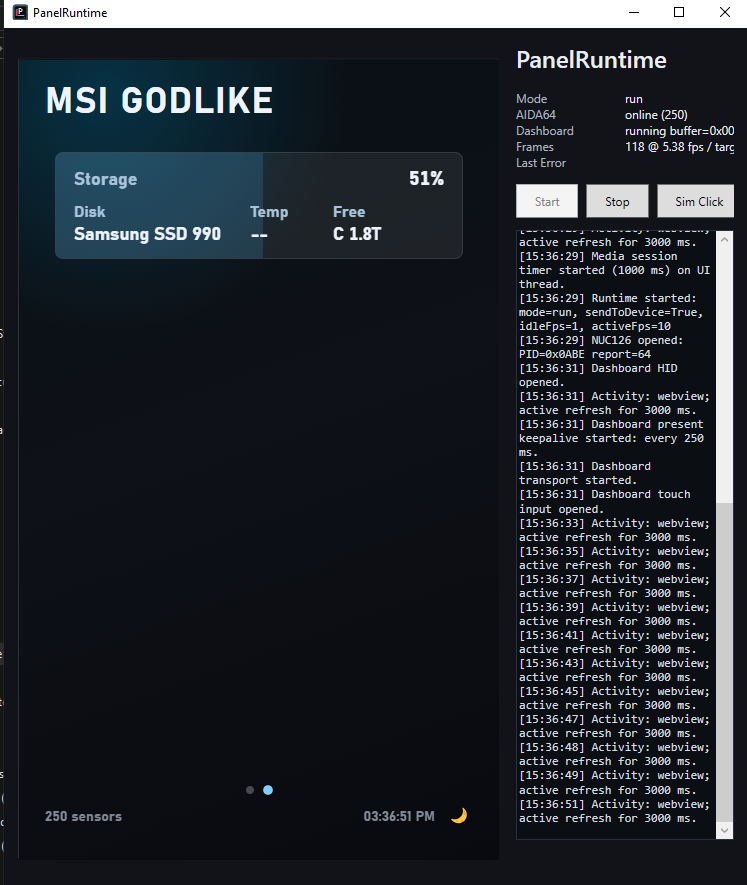
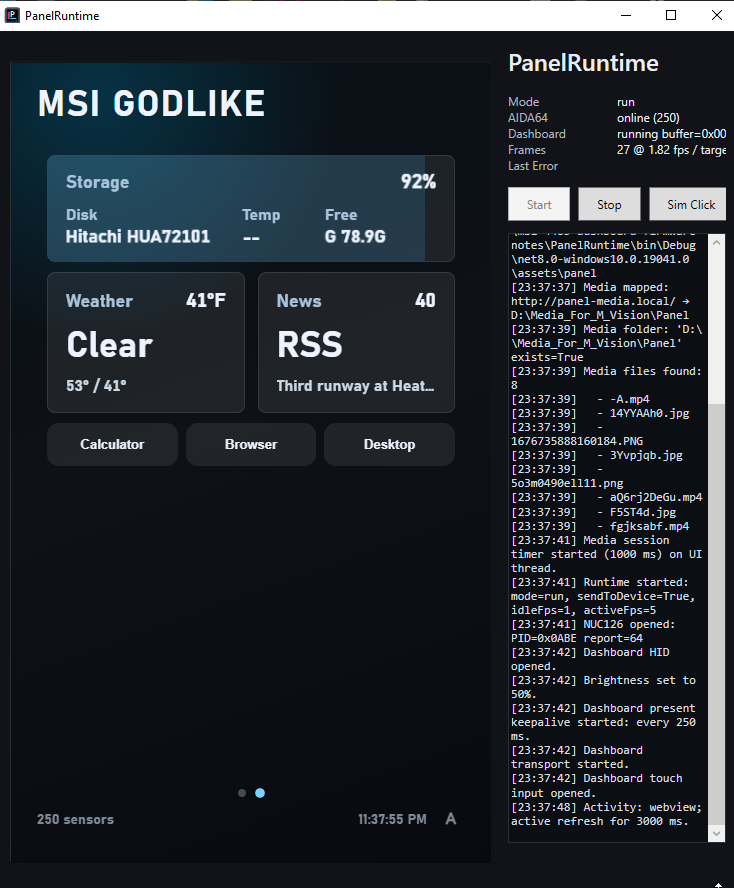
Fix storage issues, still needs some ui work

diff --git a/PanelRuntime/assets/panel/panel.css b/PanelRuntime/assets/panel/panel.css
@@ -844,17 +844,40 @@ body[data-page="network"] .detailList {
   font-weight: 800;
   font-variant-numeric: tabular-nums;
 }
-
 .storageDiskList {
   display: grid;
-  gap: 12px;
+  gap: 10px;
   align-content: start;
+  padding: 4px 2px 8px;
 }
+
+.detailList { overflow: hidden; }
+body[data-page="board"] .detailList { overflow: hidden; }
+.storageDiskCard { height: 132px; }  /* ~4 fit in 694px */
+
+body[data-page="board"] .detailView,
+body[data-page="network"] .detailView {
+  grid-template-rows: 1fr 34px;
+  min-height: 0;
+}
+
+body[data-page="board"] .detailList,
+body[data-page="network"] .detailList {
+  padding: 0;
+  overflow-x: hidden;
+  overflow-y: auto;              /* was hidden */
+  -webkit-overflow-scrolling: touch;
+  min-height: 0;
+  background: transparent;
+  border: 0;
+}
+
+
 
 .storageDiskCard {
   position: relative;
-  height: 132px;
-  padding: 15px 16px;
+  height: 118px;
+  padding: 12px 14px;
   border-radius: 8px;
   background: var(--card-bg);
   border: 1px solid var(--card-border);

diff --git a/PanelRuntime/Services/WindowsStorageProvider.cs b/PanelRuntime/Services/WindowsStorageProvider.cs
@@ -89,24 +89,27 @@ public sealed class WindowsStorageProvider
                 diskVolumes));
         }
 
+        
         var unmatched = volumes
-            .Where(volume => string.IsNullOrWhiteSpace(volume.DiskNumber))
+            .Where(volume => string.IsNullOrWhiteSpace(volume.DiskNumber)
+                || !disks.Any(d => string.Equals(d.DiskNumber, volume.DiskNumber, StringComparison.OrdinalIgnoreCase)))
             .OrderBy(volume => volume.Name, StringComparer.OrdinalIgnoreCase)
             .ToList();
-        if (disks.Count == 0 && unmatched.Count > 0)
+
+        if (unmatched.Count > 0)
         {
             disks.Add(new StorageDiskValue(
-                "",
-                "Windows Storage",
-                "",
-                "",
+                "vol",
+                "Other volumes",
                 "",
                 "",
                 "",
-                unmatched.Sum(volume => volume.TotalBytes),
-                FormatBytes(unmatched.Sum(volume => volume.TotalBytes)),
-                unmatched.Select(volume => volume.Name).ToList()));
-        }
+                "",
+                "",
+                unmatched.Sum(v => v.TotalBytes),
+                FormatBytes(unmatched.Sum(v => v.TotalBytes)),
+                unmatched.Select(v => v.Name).Distinct(StringComparer.OrdinalIgnoreCase).ToList()));
+            }
 
         return disks;
     }
@@ -138,14 +141,61 @@ public sealed class WindowsStorageProvider
     private static (List<DiskInfo> Items, string Error) ProbeDiskInfo()
     {
         const string script = """
-            $ErrorActionPreference='Stop'
-            $items = foreach ($volume in (Get-Volume | Where-Object { $_.DriveLetter })) {
-              $partition = Get-Partition -DriveLetter $volume.DriveLetter -ErrorAction SilentlyContinue | Select-Object -First 1
-              if ($null -eq $partition) { continue }
-              $disk = Get-Disk -Number $partition.DiskNumber -ErrorAction SilentlyContinue
-              if ($null -eq $disk) { continue }
-              [pscustomobject]@{
-                DiskNumber = [string]$disk.Number
+        $ErrorActionPreference='Stop'
+        $items = @()
+
+        # Every fixed/ready volume with a letter
+        foreach ($vol in (Get-Volume | Where-Object { $_.DriveLetter -and $_.DriveType -eq 'Fixed' })) {
+            $letter = ([string]$vol.DriveLetter) + ':'
+            $parts = @(Get-Partition -DriveLetter $vol.DriveLetter -ErrorAction SilentlyContinue)
+            if ($parts.Count -eq 0) {
+                # No partition mapping (rare) — still surface the volume
+                $items += [pscustomobject]@{
+                    DiskNumber = 'vol'
+                    Model = if ($vol.FileSystemLabel) { $vol.FileSystemLabel } else { 'Volume' }
+                    SerialNumber = ''
+                    Health = [string]$vol.HealthStatus
+                    OperationalStatus = [string]$vol.OperationalStatus
+                    BusType = ''
+                    MediaType = ''
+                    SizeBytes = [int64]($vol.Size)
+                    DriveLetter = $letter
+                    IsSpanned = $false
+                }
+                continue
+            }
+
+            $diskNumbers = @($parts | ForEach-Object { $_.DiskNumber } | Sort-Object -Unique)
+            $isSpanned = $diskNumbers.Count -gt 1
+
+            foreach ($dn in $diskNumbers) {
+                $disk = Get-Disk -Number $dn -ErrorAction SilentlyContinue
+                if ($null -eq $disk) { continue }
+                $model = [string]$disk.FriendlyName
+                if ($isSpanned) {
+                    $model = ($model + ' (span)').Trim()
+                }
+                $items += [pscustomobject]@{
+                    DiskNumber = [string]$dn
+                        Model = $model
+                        SerialNumber = [string]$disk.SerialNumber
+                        Health = [string]$disk.HealthStatus
+                        OperationalStatus = [string]($disk.OperationalStatus -join ',')
+                        BusType = [string]$disk.BusType
+                        MediaType = [string]$disk.MediaType
+                        SizeBytes = [int64]$disk.Size
+                        DriveLetter = $letter
+                    IsSpanned = $isSpanned
+                }
+            }
+        }
+
+        # Disks with no lettered volume still appear (unallocated / system)
+        foreach ($disk in (Get-Disk -ErrorAction SilentlyContinue)) {
+            $dn = [string]$disk.Number
+            if ($items | Where-Object { $_.DiskNumber -eq $dn }) { continue }
+            $items += [pscustomobject]@{
+                DiskNumber = $dn
                 Model = [string]$disk.FriendlyName
                 SerialNumber = [string]$disk.SerialNumber
                 Health = [string]$disk.HealthStatus
@@ -153,12 +203,13 @@ public sealed class WindowsStorageProvider
                 BusType = [string]$disk.BusType
                 MediaType = [string]$disk.MediaType
                 SizeBytes = [int64]$disk.Size
-                DriveLetter = ([string]$volume.DriveLetter) + ':'
-              }
+                DriveLetter = ''
+                IsSpanned = $false
             }
-            $items | ConvertTo-Json -Compress
-            """;
+        }
 
+        $items | ConvertTo-Json -Compress
+        """;
         try
         {
             using var process = new Process();
@@ -213,7 +264,7 @@ public sealed class WindowsStorageProvider
         {
             var diskNumber = ReadString(element, "DiskNumber");
             var driveLetter = ReadString(element, "DriveLetter");
-            if (string.IsNullOrWhiteSpace(diskNumber) || string.IsNullOrWhiteSpace(driveLetter))
+            if (string.IsNullOrWhiteSpace(diskNumber) || string.IsNullOrWhiteSpace(driveLetter))// driveLetter may be empty for disks with no volume
             {
                 continue;
             }

diff --git a/README.md b/README.md
@@ -23,6 +23,9 @@ Device information:
 	Note some M-Vision have a of PID=0x17E0
 	Extra caution should be used when flashing them.
 	While unsure of the exaxt difference these flashes can be flashed onto it.
+
+	There is also a versions of the M-Vision with a PID=0x4483 this one hasn't been at all tested. Extra Extra Caution if you chose to be the first one to mess with it cuz your in uncharted waters.
+
 - Firmware image: `conprog_4BB6_22100300.bin`
 - Custom runtime panel size: `480x800`
 
@@ -117,13 +120,13 @@ This is not official firmware and not an official tool. Flashing the wrong image
 - No current support to get into the MSI Center from the display
 - No current support to control the led light modes from the display
 - No current support to play audio out of the M-Vision's little speaker
+- No current support to set the sound the M-Vision play's on certain states (Power On, CPU Alarm, DDR Alarm, etc)
 
 
 ### Current Issues
 - Sometimes on exiting from PanelRuntime the the M-Vision doesn't return to the limited funtionality of the lower level MSI M-Vision Dashboard on the device and will still show the last frame from PannelRuntime, this is corrected with power cycling it. 
 - If stopped in PannelRuntime the, the M-Vision has a tendency to timeout when trying to start again from the same PannelRuntime instence. This is currently corrected by fully shutting down the PannelRuntime program and then starting PannelRuntime again and then starting the display connection
-- Storage doesn't show drives that are in spanned disk arrangement
-- The Storage window currently only shows 4 ~.5 ish drives any more than that and it's cut off, that said all comptable drives are still shown via cycling on the home page 
+- Much UI work is needed
 
 
 
